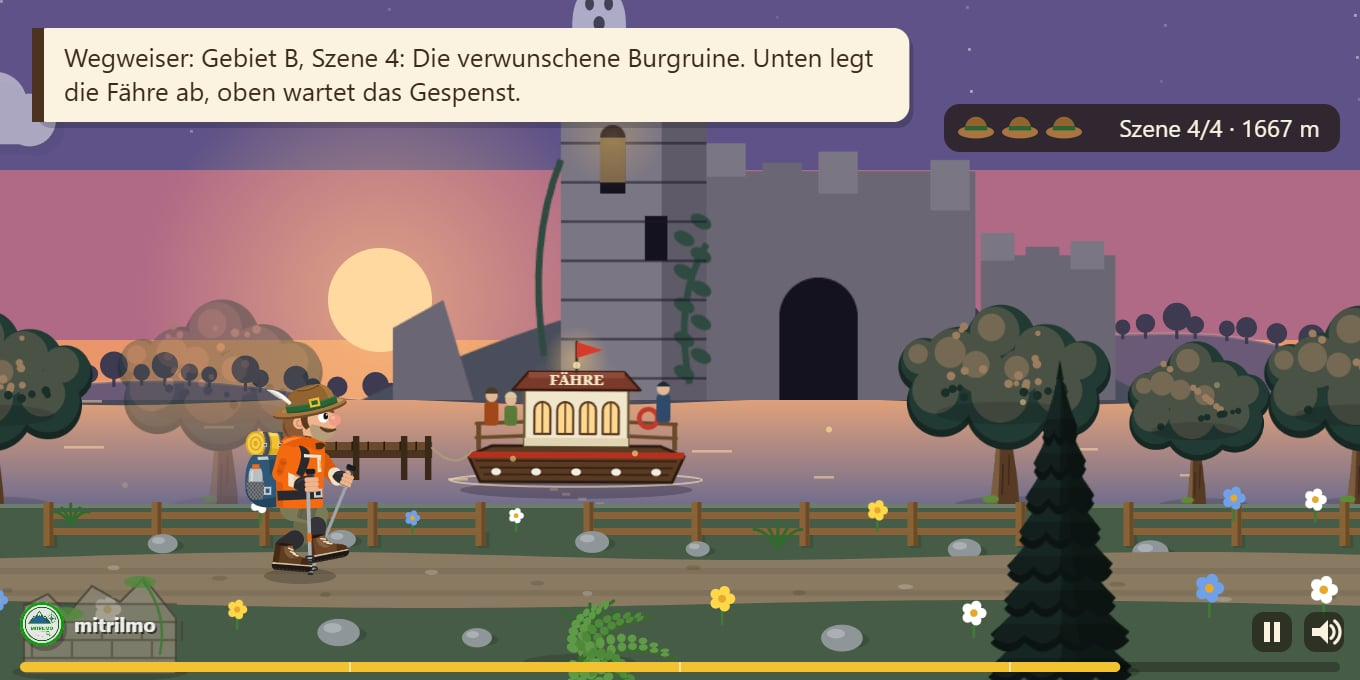
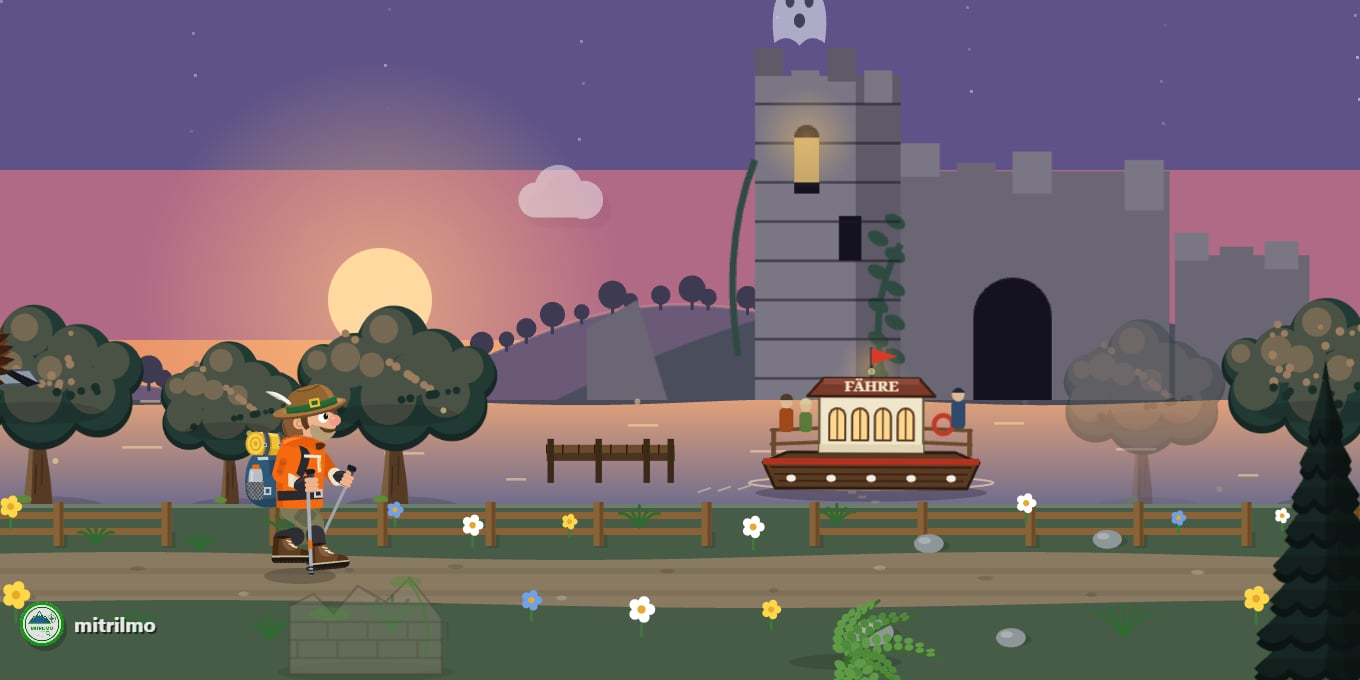
Spiel: Zeugnis am Handy mit getrennten Knoepfen, Neuigkeit vom 20.11. gekuerzt und neue Bilder

diff --git a/src/game/mos-hike-quest.js b/src/game/mos-hike-quest.js
@@ -2104,7 +2104,7 @@ function jump(){
  if(!mm.air)jumpNow();else mm.buf=.14}
 cv.addEventListener('pointerdown',function(e){e.preventDefault();var rc=cv.getBoundingClientRect(),lx=(e.clientX-rc.left)/rc.width*W,ly=(e.clientY-rc.top)/rc.height*H;if(g.paused){if(lx>W-34&&ly>H-40){muted=!muted;if(!muted)sfx('ok')}else setPause(false);return}
 if(g.mode==='map'){mapTap(lx,ly);return}if(g.mode==='play'&&lx>W-58&&lx<=W-34&&ly>H-40){setPause(true);return}
-if(g.mode==='intro'&&lx>W-104&&ly<38){endIntro();return}if(g.mode==='film'){if(lx>W-34&&ly>H-40){muted=!muted;if(!muted)sfx('ok')}else if(lx>W-104&&ly<38)endFilm();return}if(lx>W-34&&ly>H-40){muted=!muted;if(!muted)sfx('ok');return}if(g.mode==='over'&&g.tOver>(g.won?wonT():1.6)&&lx>215&&lx<445&&ly>280&&ly<306&&((g.won&&!g.bonus)||g.bonus)){if(g.bonus>=3&&g.won){openMap();return}if(g.bonus===1&&g.won)startFilm();else if(g.bonus===2&&g.won)start(3);else start(g.bonus?0:1);return}if(g.mode==='play'&&ly>H*.66){mm.duckPtr=true;mm.duckT=.45;return}mm.hold=true;jump()});
+if(g.mode==='intro'&&lx>W-104&&ly<38){endIntro();return}if(g.mode==='film'){if(lx>W-34&&ly>H-40){muted=!muted;if(!muted)sfx('ok')}else if(lx>W-104&&ly<38)endFilm();return}if(lx>W-34&&ly>H-40){muted=!muted;if(!muted)sfx('ok');return}if(g.mode==='over'&&zSplit()){if(lx<=215||lx>=445||ly<244||(ly>276&&ly<288)||ly>318)return;if(ly>=288){jump();return}}if(g.mode==='over'&&g.tOver>(g.won?wonT():1.6)&&lx>215&&lx<445&&ly>(zSplit()?244:280)&&ly<(zSplit()?276:306)&&((g.won&&!g.bonus)||g.bonus)){if(g.bonus>=3&&g.won){openMap();return}if(g.bonus===1&&g.won)startFilm();else if(g.bonus===2&&g.won)start(3);else start(g.bonus?0:1);return}if(g.mode==='play'&&ly>H*.66){mm.duckPtr=true;mm.duckT=.45;return}mm.hold=true;jump()});
 function duckOff(){mm.duckPtr=false;mm.hold=false}
 cv.addEventListener('pointerup',duckOff);cv.addEventListener('pointercancel',duckOff);cv.addEventListener('pointerleave',duckOff);
 window.addEventListener('keydown',function(e){
@@ -2251,7 +2251,7 @@ function drawParts(P,ts,o){
 }
 var bubK='',bubL=[],bubW=0;
 function bubble(){
- if(msgT<=0)return;var a=Math.min(1,msgT);x.globalAlpha=a;
+ if(msgT<=0||g.clean||zSplit())return;var a=Math.min(1,msgT);x.globalAlpha=a;
  x.font='13px system-ui,sans-serif';x.textAlign='left';var t='Wegweiser: '+msg,mxw=W-32-(g.mode==='intro'?Math.round(90*FB)+8:0),ls,bk=t+'|'+mxw+'|'+g.mode+'|'+FB;if(bubK!==bk){bubK=bk;ls=wrap(t,mxw-34);if(ls.length>1&&g.mode==='play'){mxw=Math.min(mxw,446);ls=wrap(t,mxw-34)}bubL=ls;bubW=Math.min(mxw,Math.max.apply(null,ls.map(function(s){return x.measureText(s).width}))+34)}ls=bubL;var w=bubW;
  var bh=Math.round(30*(1+(FB-1)*.8))+(ls.length-1)*Math.round(17*FB);x.fillStyle='rgba(0,0,0,.18)';x.beginPath();x.roundRect(18,17,w,bh,8);x.fill();
  x.fillStyle='#fbf3e0';x.beginPath();x.roundRect(16,14,w,bh,8);x.fill();
@@ -2333,11 +2333,12 @@ function protokoll(a,cx,cw,cy,ch){
  if(!sel.length){wrap('Nichts notiert. Auch das ist eine Aussage.',mw).forEach(function(l,i){x.fillText(l,px+16,yy+i*13)})}
  sel.forEach(function(t){var ls=wrap(t,mw);if(yy+ls.length*13>cy+ch-14)return;x.fillStyle='#a0481a';x.fillText('·',px+13,yy);x.fillStyle='#4b3320';ls.forEach(function(l,i){x.fillText(l,px+22,yy+i*13)});yy+=ls.length*13+7});
  x.textAlign='left';x.globalAlpha=1;FQ=FB}
+function zSplit(){return TOUCH&&g.mode==='over'&&((g.won&&!g.bonus)||g.bonus)}
 function zeugnis(ts){
  if(g.mode!=='over')return;
  var a=Math.min(1,Math.max(0,(g.tOver-(g.won?wonT()-.6:.7))*2));if(a<=0)return;
  x.globalAlpha=a;
- var cx=330,cw=250,ch=276,cy=48+(1-a)*14,gr=grade();
+ var cx=330,cw=250,sp=zSplit(),ch=sp?316:276,cy=(sp?10:48)+(1-a)*14,gr=grade();
  fbDicht();x.fillStyle='rgba(0,0,0,.25)';x.beginPath();x.roundRect(cx-cw/2+4,cy+5,cw,ch,6);x.fill();
  x.fillStyle='#fbf3e0';x.beginPath();x.roundRect(cx-cw/2,cy,cw,ch,6);x.fill();
  x.strokeStyle='#b8925a';x.lineWidth=2;x.beginPath();x.roundRect(cx-cw/2+7,cy+7,cw-14,ch-14,4);x.stroke();
@@ -2354,9 +2355,10 @@ function zeugnis(ts){
  var rl=wrap('Wegweiser: '+REMARK[gr[0]],cw-50),rh=rl.length>2?12:14,ry0=rl.length>2?205:208;
  rl.forEach(function(l,i){x.fillText(l,cx,cy+ry0+i*rh)});
  if(g.tOver>(g.won?wonT():.9)){
-  if(((g.won&&!g.bonus)||g.bonus)&&g.tOver>(g.won?wonT():1.6)){x.fillStyle='rgba(160,72,26,.12)';x.beginPath();x.roundRect(cx-104,cy+234,208,22,11);x.fill();x.font='bold 12px system-ui,sans-serif';x.fillStyle='#a0481a';
-   x.fillText((g.bonus>=3&&g.won)?(TOUCH?'Hier tippen: Karte':'B: Karte'):g.bonus===1&&g.won?(TOUCH?'Hier tippen: Seilbahn ins Moor':'B: Seilbahn ins Moor'):g.bonus===2&&g.won?(TOUCH?'Hier tippen: Altstadt & Friedhof':'B: Altstadt & Friedhof'):g.bonus?(TOUCH?'Hier tippen: Quest von vorn':'N: Quest von vorn'):(TOUCH?'Hier tippen: Bonus Höhle & Grat':'B: Bonus Höhle & Gebirgsgrat'),cx,cy+249,cw-30)}
-  if(Math.floor(ts/600)%2){x.font='bold 12px system-ui,sans-serif';x.fillStyle='#4a8c3f';x.fillText(g.bonus===1&&g.won&&!TOUCH?'Leertaste: nochmal · N: Quest von vorn':g.bonus?'Leertaste oder Tippen: Bonus nochmal':'Leertaste oder Tippen: nochmal',cx,cy+ch-12,cw-30)}}
+  if(((g.won&&!g.bonus)||g.bonus)&&g.tOver>(g.won?wonT():1.6)){x.fillStyle='rgba(160,72,26,.12)';x.beginPath();x.roundRect(cx-104,cy+(sp?236:234),208,sp?28:22,sp?14:11);x.fill();x.font='bold 12px system-ui,sans-serif';x.fillStyle='#a0481a';
+   x.fillText((g.bonus>=3&&g.won)?(TOUCH?'Hier tippen: Karte':'B: Karte'):g.bonus===1&&g.won?(TOUCH?'Hier tippen: Seilbahn ins Moor':'B: Seilbahn ins Moor'):g.bonus===2&&g.won?(TOUCH?'Hier tippen: Altstadt & Friedhof':'B: Altstadt & Friedhof'):g.bonus?(TOUCH?'Hier tippen: Quest von vorn':'N: Quest von vorn'):(TOUCH?'Hier tippen: Bonus Höhle & Grat':'B: Bonus Höhle & Gebirgsgrat'),cx,cy+(sp?254:249),cw-30)}
+  if(sp){x.fillStyle='rgba(74,140,63,.16)';x.beginPath();x.roundRect(cx-104,cy+278,208,28,14);x.fill();x.font='bold 12px system-ui,sans-serif';x.fillStyle='#3d7433';x.fillText(g.bonus?'Hier tippen: Bonus nochmal':'Hier tippen: nochmal',cx,cy+296,cw-30)}
+  else if(Math.floor(ts/600)%2){x.font='bold 12px system-ui,sans-serif';x.fillStyle='#4a8c3f';x.fillText(g.bonus===1&&g.won&&!TOUCH?'Leertaste: nochmal · N: Quest von vorn':g.bonus?'Leertaste oder Tippen: Bonus nochmal':'Leertaste oder Tippen: nochmal',cx,cy+ch-12,cw-30)}}
  protokoll(a,cx,cw,cy,ch);
  x.textAlign='left';x.globalAlpha=1;FQ=FB}
 function fade(){
@@ -3983,8 +3985,8 @@ function frame(ts0){
  }
  x.restore();
  fade();
- if(g.mode!=='title'&&g.mode!=='intro'){hud();drawFx(ts);pfandUI(ts)}
- banner2();introUI(ts);titel(ts);zeugnis(ts);wasserzeichen();pauseUI();muteIcon();pauseIcon();
+ if(!g.clean&&g.mode!=='title'&&g.mode!=='intro'){hud();drawFx(ts);pfandUI(ts)}
+ if(!g.clean){banner2();introUI(ts);titel(ts);zeugnis(ts)}wasserzeichen();if(!g.clean){pauseUI();muteIcon();pauseIcon()}
  if(msgT>0)msgT-=dt;if(g.mode!=='title'||true)bubble();
  requestAnimationFrame(frame)}
 requestAnimationFrame(frame);

diff --git a/src/content/news/2026-11-20-mos-hike-quest-bergische-wahrzeichen.md b/src/content/news/2026-11-20-mos-hike-quest-bergische-wahrzeichen.md
@@ -7,22 +7,14 @@ hinweis: false
 draft: false
 coverAlt: "Mo läuft durch einen sonnigen Wald. Im Hintergrund fährt eine kleine Dampflok mit drei Waggons über die Müngstener Brücke, zwischen zwei Tunneln in bewaldeten Bergen."
 photos:
-  - image: ../../assets/images/news/2026-11-20-mos-hike-quest-bergische-wahrzeichen-fotos/hammerkotten.jpg
-    alt: "Mo wandert am Hammerkotten vorbei, einem Fachwerkhaus mit großem Wasserrad und Amboss. Am Himmel fliegt ein roter Doppeldecker mit einem Piloten."
+  - image: ../../assets/images/news/2026-11-20-mos-hike-quest-bergische-wahrzeichen-fotos/winter-henrichshuette.jpg
+    alt: "Mo wandert im Winter durch verschneite Tannen. Im Hintergrund ragt der Förderturm der Henrichshütte aus dem Schneetreiben, Seilscheiben und Berge sind weiß bestäubt."
   - image: ../../assets/images/news/2026-11-20-mos-hike-quest-bergische-wahrzeichen-fotos/tanztunnel.jpg
-    alt: "Mo läuft durch einen dunkelroten Bahntunnel über alte Gleise. Eine Ratte läuft ihm entgegen, an der Wand hängt ein Plakat mit einer Tänzerin."
-  - image: ../../assets/images/news/2026-11-20-mos-hike-quest-bergische-wahrzeichen-fotos/schmiedeschlucht.jpg
-    alt: "Mo geht in der Abenddämmerung durch eine Schlucht. Im Hintergrund dreht sich ein Riesenrad, ein großer Schmiedehammer pendelt über dem Weg, vorn liegen ein glühender Schlackehaufen und ein Hufeisen."
-  - image: ../../assets/images/news/2026-11-20-mos-hike-quest-bergische-wahrzeichen-fotos/talsperre.jpg
-    alt: "Mo wandert am Ufer einer Talsperre entlang. Ein Graureiher fliegt über den Weg, am Boden hüpft ein Frosch und läuft ein gestreifter Wildschwein-Frischling, hinter den Bäumen drehen sich Windräder."
-  - image: ../../assets/images/news/2026-11-20-mos-hike-quest-bergische-wahrzeichen-fotos/staumauer-tuffi.jpg
-    alt: "Mo geht an einer hohen Staumauer vorbei. Dahinter steht ein Zoo, in dem ein grauer Elefant mit großen Ohren und dem Schild Tuffi zu sehen ist. Davor spritzt eine Wasserfontäne."
+    alt: "Mo läuft durch einen dunkelroten Bahntunnel über alte Gleise. Über ihm hängt eine Lampe, an der Wand steht ein Schild „Tanztunnel“."
   - image: ../../assets/images/news/2026-11-20-mos-hike-quest-bergische-wahrzeichen-fotos/burgruine-faehre.jpg
-    alt: "Abendstimmung an einer Burgruine mit Steinturm. Davor liegt eine kleine Fähre mit erleuchteten Fenstern an einem Holzanleger, oben schwebt ein Gespenst."
-  - image: ../../assets/images/news/2026-11-20-mos-hike-quest-bergische-wahrzeichen-fotos/hattingen.jpg
-    alt: "Mo geht durch eine Altstadt im Regen mit Regenbogen. In einem Fachwerkhaus mit drei Etagen schüttelt eine Frau im obersten Fenster ein Kissen aus, die Daunen fallen wie Schnee nach unten."
-  - image: ../../assets/images/news/2026-11-20-mos-hike-quest-bergische-wahrzeichen-fotos/schloss-burg.jpg
-    alt: "Mo wandert im Frühling durch blühende Bäume. Im Hintergrund steht eine Burg mit roten Turmdächern auf einem Berg, vorn zeigt ein Wegweiser nach Schloss Burg."
+    alt: "Abendstimmung an einer Burgruine mit Steinturm. Davor liegt eine kleine Fähre mit erleuchteten Fenstern, Mo geht am Ufer entlang, oben schwebt ein Gespenst."
+  - image: ../../assets/images/news/2026-11-20-mos-hike-quest-bergische-wahrzeichen-fotos/kluterthoehle.jpg
+    alt: "Mo geht mit Stirnlampe durch eine dunkle Höhle mit leuchtenden Kristallen. Ein Wegweiser zeigt zur Kluterthöhle, am Boden läuft ein Fuchs, an der Decke hängen Fledermäuse."
 tags:
   - Spiel
   - MosHikeQuest
@@ -32,22 +24,14 @@ link:
   href: /projekte/mos-hike-quest.html
   text: Zum Spiel
 ---
-Mo’s Hike Quest hat zwei neue Gebiete bekommen. Beide haben vier Szenen, eigene Hindernisse, eigene Funde und Schilder mit Orten aus der Gegend. Sie sind über die Karte erreichbar, die nach dem Sieg an der Hütte erscheint.
+Mo’s Hike Quest hat zwei neue Gebiete mit je vier Szenen. Ihr erreicht sie über die Karte, die nach dem Sieg an der Hütte erscheint.
 
-Gebiet A heißt Hammerwerke und Bahntrassen. Es beginnt am Hammerkotten, einem Fachwerkhaus mit Wasserrad, wo ein roter Doppeldecker mit einem Banner über den Weg fliegt. Es geht weiter ins Tal zu einem Viadukt, durch einen roten Tunnel mit Tänzerinnen-Plakat und am Ende in eine Schlucht mit Schmiedehämmern, Funken und einem Stadtfest mit Riesenrad. Unterwegs begegnen euch ein Biber, rollende Fässer, ein Uhu, Tunnelratten und glühende Schlacke.
+**Hammerwerke und Bahntrassen:** vom Hammerkotten mit Wasserrad über ein Viadukt und einen roten Tunnel bis in eine Schlucht mit Schmiedehämmern.
 
-Gebiet B heißt Talsperre und Steinbruch. Es startet am Ufer einer Talsperre, mit drehenden Windrädern, einem Segelflugplatz und Wasserfröschen. Dann folgt eine große Staumauer, hinter der im Zoo ein Elefant namens Tuffi wohnt. Danach kommt ein Steinbruch mit einer Universität davor, und zum Schluss steht ihr unter einer Burgruine, an der eine kleine Fähre am Anleger liegt. Dort oben wartet ein Gespenst. Dazu fliegen Reiher, Kormoran, Eichelhäher und Turmfalke durchs Bild, am Boden laufen Frischling, Waschbär, Feuersalamander und Ringelnatter.
+**Talsperre und Steinbruch:** vom Ufer mit Windrädern über die Staumauer, hinter der im Zoo ein Elefant namens Tuffi wohnt, bis zu einer Burgruine mit Fähre und Gespenst.
 
-Außerdem tauchen im Hauptspiel jetzt Orte aus der Gegend auf, und wer genau hinschaut, findet sie.
+Im Hauptspiel und in den Bonus-Leveln tauchen außerdem Orte aus der Gegend auf: die Müngstener Brücke, Schloss Burg, der Altenberger Dom, die Henrichshütte im Winter, ein Zeppelin und in der Altstadt ein Haus mit der Aufschrift „Röntgenmuseum“. In der Höhle zeigt ein Wegweiser zur Kluterthöhle. Wer genau hinschaut, findet noch mehr.
 
-In der zweiten Etappe steht die Müngstener Brücke zwischen zwei bewaldeten Bergen. Eine kleine Dampflok kommt aus dem Tunnel, fährt sichtbar über die Brücke und verschwindet im nächsten Tunnel. Davor und danach sieht man sie nicht, nur den Dampf kann man ahnen. Auf Schloss Burg stößt man schon in der ersten Etappe, die Burg steht auf einem Berg, vorn zeigt ein Wegweiser hin. In der dritten Etappe ragt der Altenberger Dom aus dem Herbstnebel, mit erleuchteten Fenstern. In der vierten Etappe, im Winter, steht der Förderturm der Henrichshütte hinter den Tannen, die Seilscheiben drehen sich langsam. In der letzten Etappe fliegt ein Zeppelin über die Zielgerade. Auf seiner Hülle sind drei Musketiere zu erkennen, ziemlich blass, man muss schon hinsehen.
-
-Auch die Bonus-Level haben etwas abbekommen. In der Höhle hängt jetzt ein Schild „Kluterthöhle“, und ein Fuchs ist in diesem Level immer dabei. Auf dem Gebirgsgrat steht im Hintergrund die Ruine der Burg Volmarstein, ein runder Steinturm mit einem Rest Mauer. An der Küste steht ein Schild „Ennepetalsperre“, das durchgestrichen ist. Lesen kann man es trotzdem. Warum es durchgestrichen ist, verrate ich nicht.
-
-Die größte Veränderung gibt es in der Altstadt. Dort steht jetzt ein Haus mit der Aufschrift „Röntgenmuseum“, mit grünen Fenstern, die leise pulsieren. Das ist meine Freiheit als Spielemacher, in echt leuchtet da nichts. Ein Stück weiter steht ein Fachwerkhaus mit drei Etagen. Im obersten Fenster schüttelt eine Frau ein Kissen aus, und die Daunen fallen wie Schnee bis auf das Pflaster. Am Friedhof schweben zwei Waggons der Schwebebahn durch die Nacht, nur die Fenster sind beleuchtet.
-
-Mehr als Kulisse ist das alles nicht. An den Hindernissen, am Tempo und an den Punkten hat sich nichts geändert, ihr müsst also nichts anders machen. Ich fand nur, dass ein Spiel aus dem Bergischen Land auch ein bisschen so aussehen soll.
-
-Das Spiel lädt weiterhin nichts nach und speichert nichts. Gebaut habe ich es gemeinsam mit einer KI.
+Das ist Kulisse. An den Hindernissen, am Tempo und an den Punkten hat sich nichts geändert. Das Spiel lädt weiterhin nichts nach und speichert nichts. Gebaut habe ich es gemeinsam mit einer KI.
 
 Viel Spaß beim Suchen.
